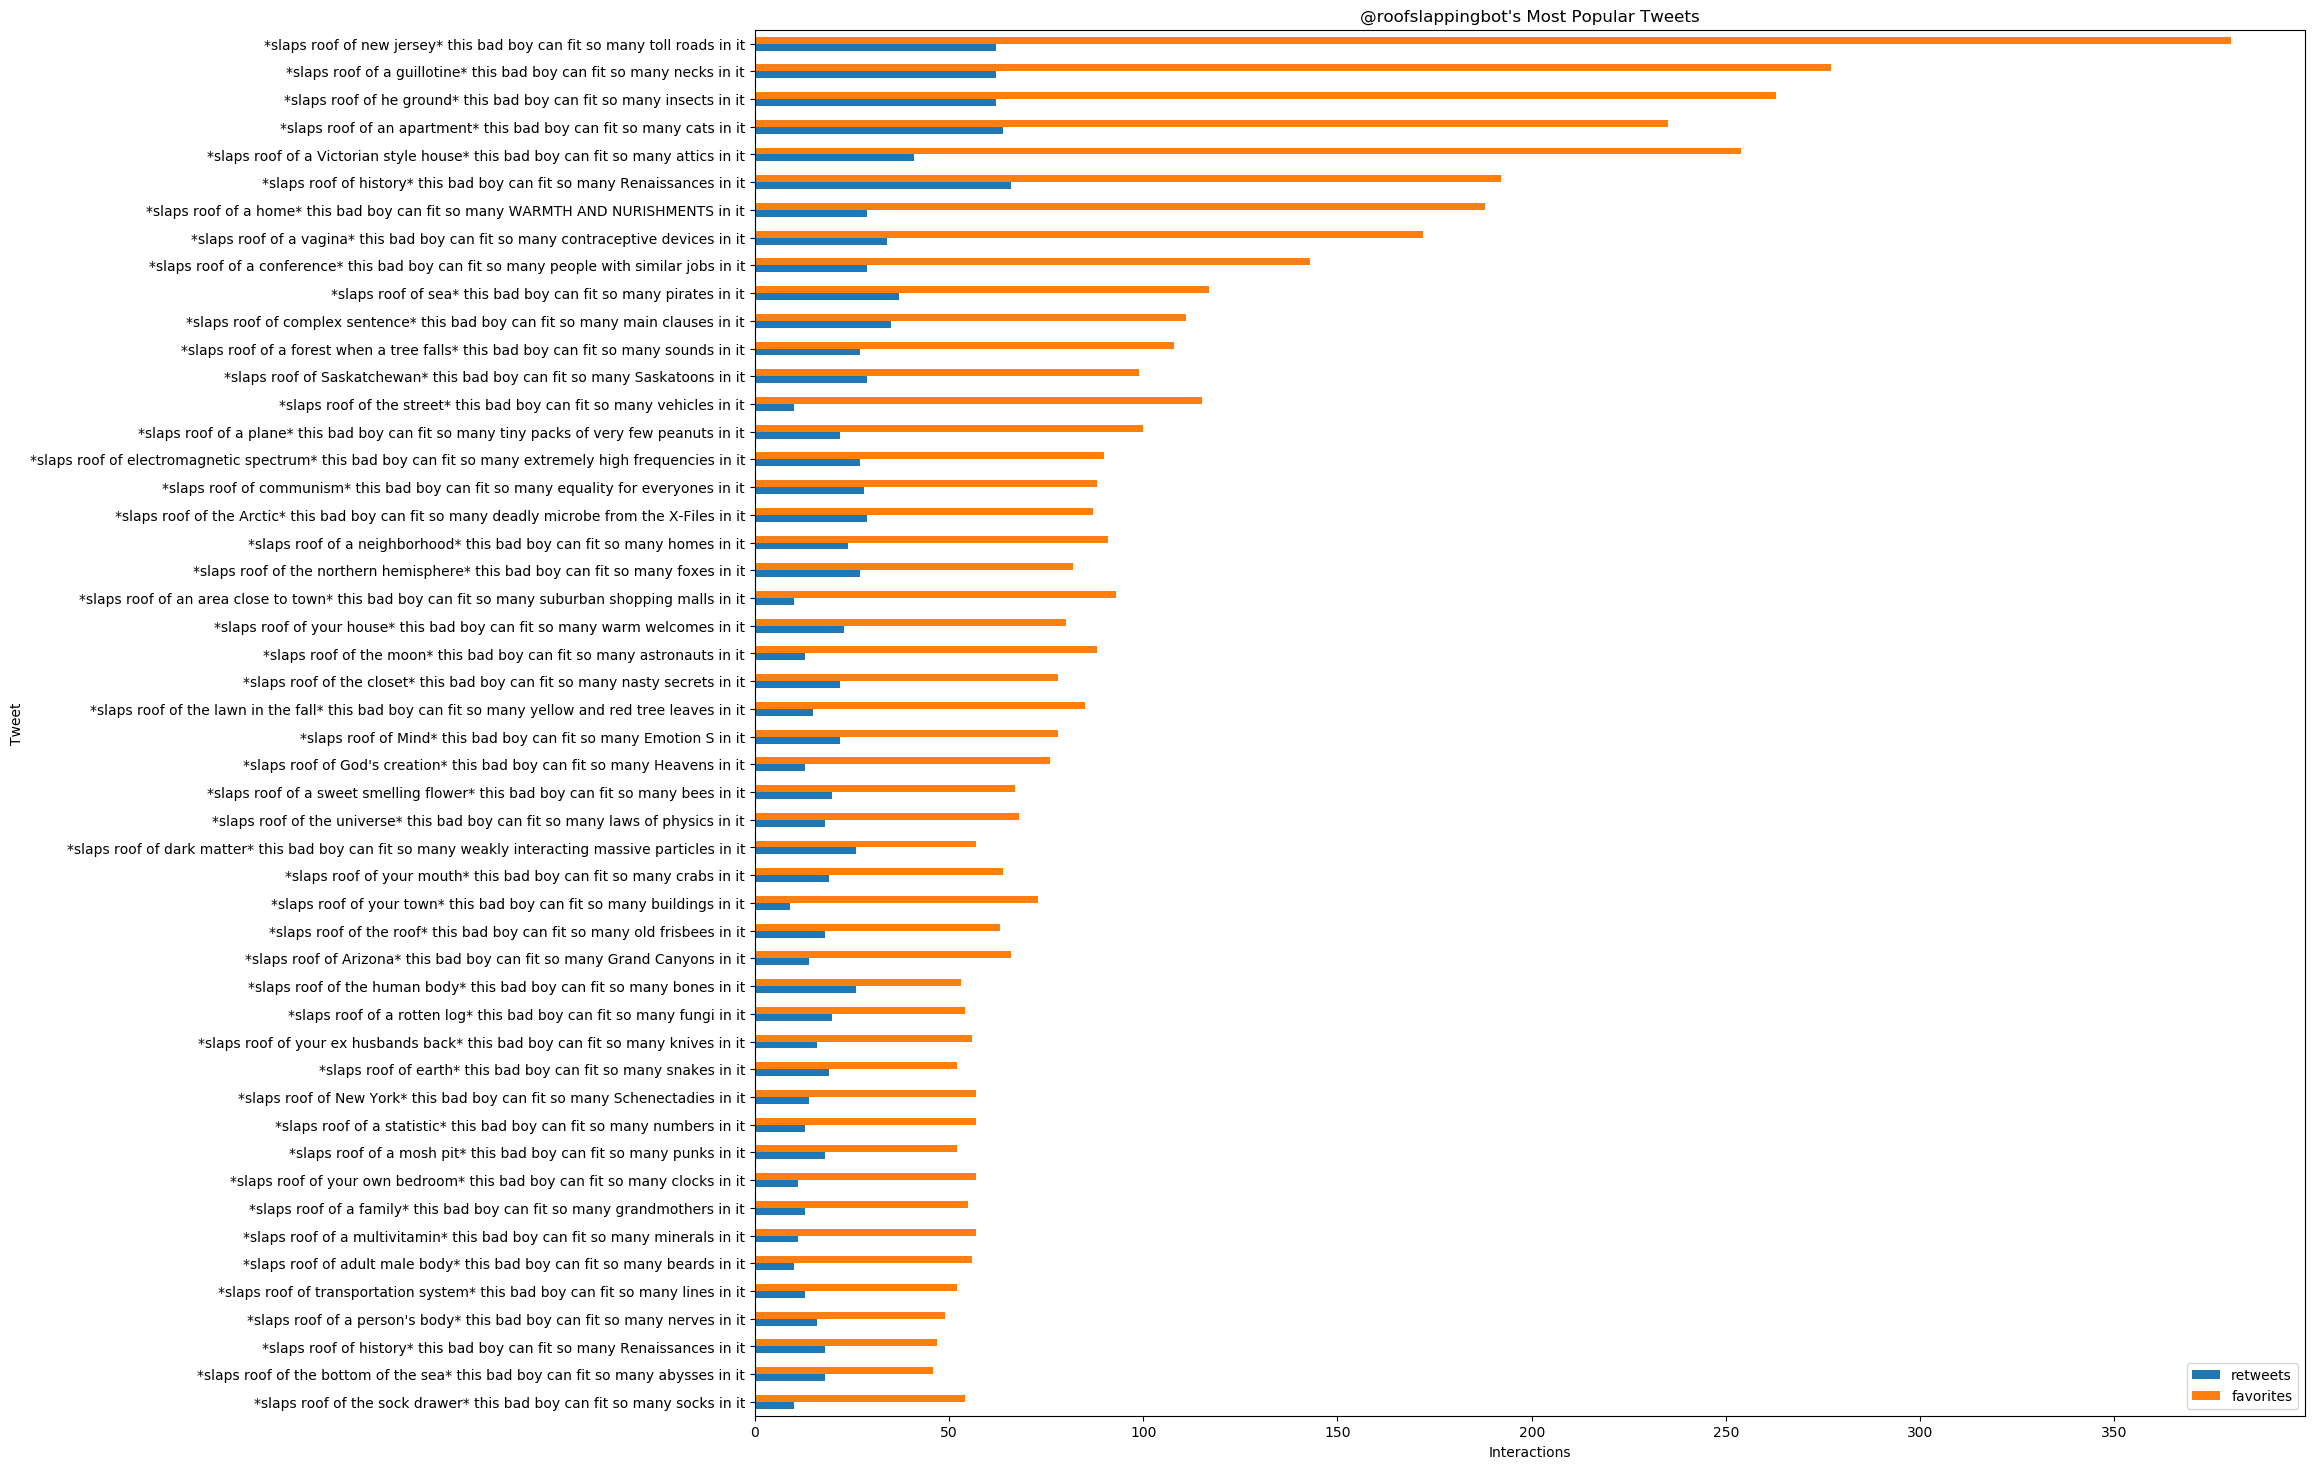
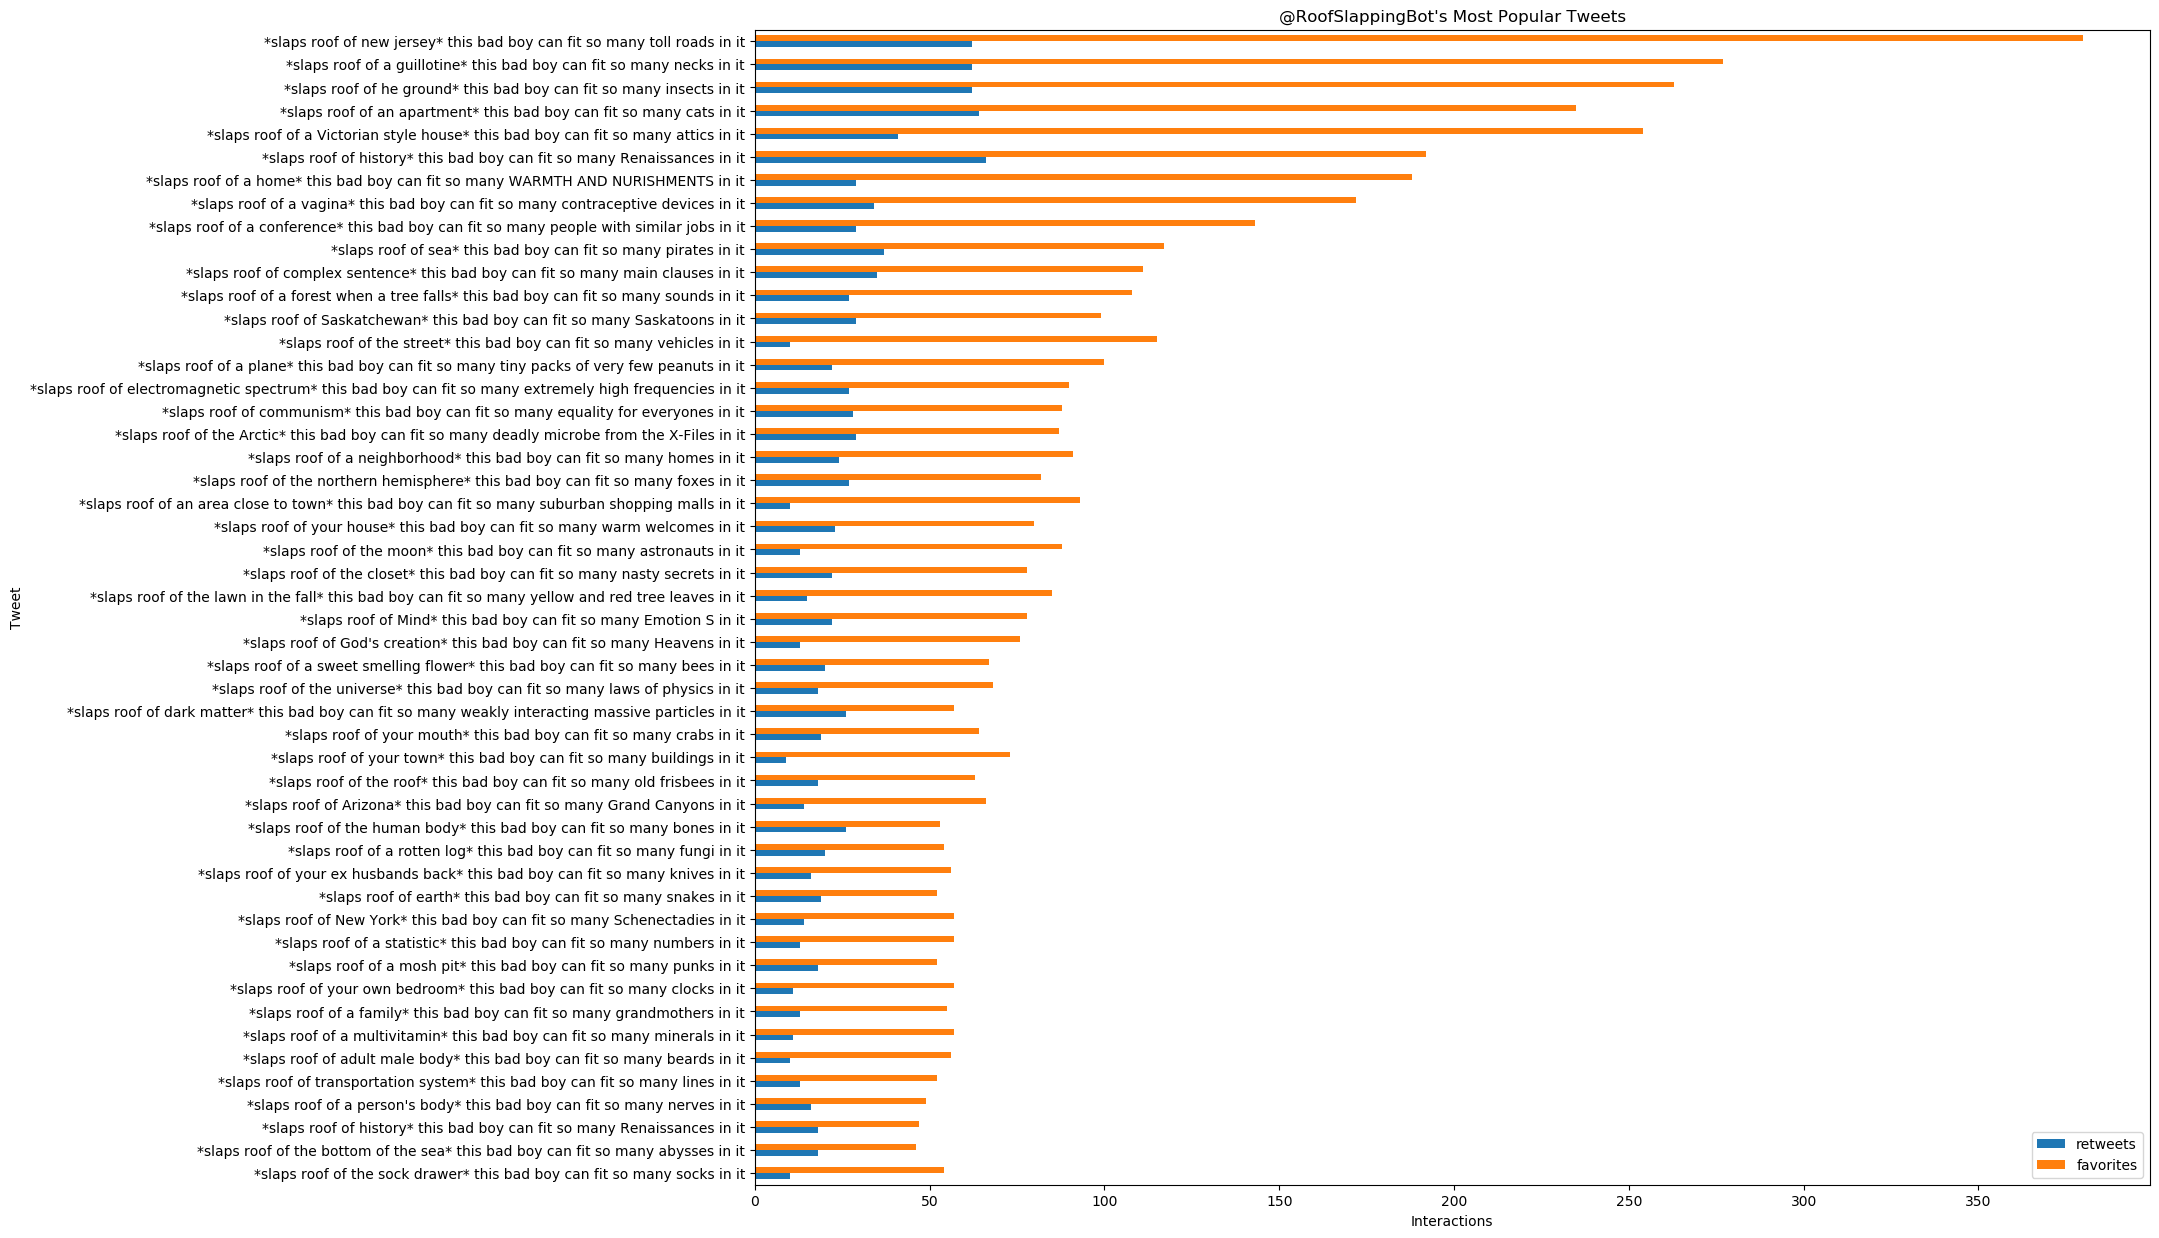
remove windows line endings and change image size

diff --git a/viz_tweets.py b/viz_tweets.py
@@ -4,18 +4,13 @@ import os
 import pandas as pd
 import tweepy
 
-consumer_key = os.environ['TWITTER_CONSUMER_KEY']
-consumer_secret = os.environ['TWITTER_CONSUMER_SECRET']
-access_token = os.environ['TWITTER_ACCESS_TOKEN']
-access_token_secret = os.environ['TWITTER_ACCESS_TOKEN_SECRET']
-
-auth = tweepy.OAuthHandler(consumer_key, consumer_secret)
-auth.set_access_token(access_token, access_token_secret)
-api = tweepy.API(auth)
-
 
 # download tweets to csv so we don't need query the API every time
 def download_tweets(handle):
+    auth = tweepy.OAuthHandler(os.environ['CONSUMER_KEY'], os.environ['CONSUMER_SECRET'])
+    auth.set_access_token(os.environ['ACCESS_TOKEN'], os.environ['ACCESS_TOKEN_SECRET'])
+    api = tweepy.API(auth)
+
     df = pd.DataFrame([
         {
             'text': tweet.full_text,
@@ -42,7 +37,7 @@ def viz_top_tweets(tweets_df, handle):
         .sort_values('interactions') \
         .tail(50) \
         .assign(text=lambda df: df['text'].str.replace('\n', ' \\n ')) \
-        .plot.barh(x='text', y=['retweets', 'favorites'], figsize=(20, 18)) \
+        .plot.barh(x='text', y=['retweets', 'favorites'], figsize=(18, 15)) \
         .set(xlabel='Interactions', ylabel='Tweet', title=f'@{handle}\'s Most Popular Tweets')
 
     plt.savefig(f'{handle}/tweets.png', bbox_inches='tight')
